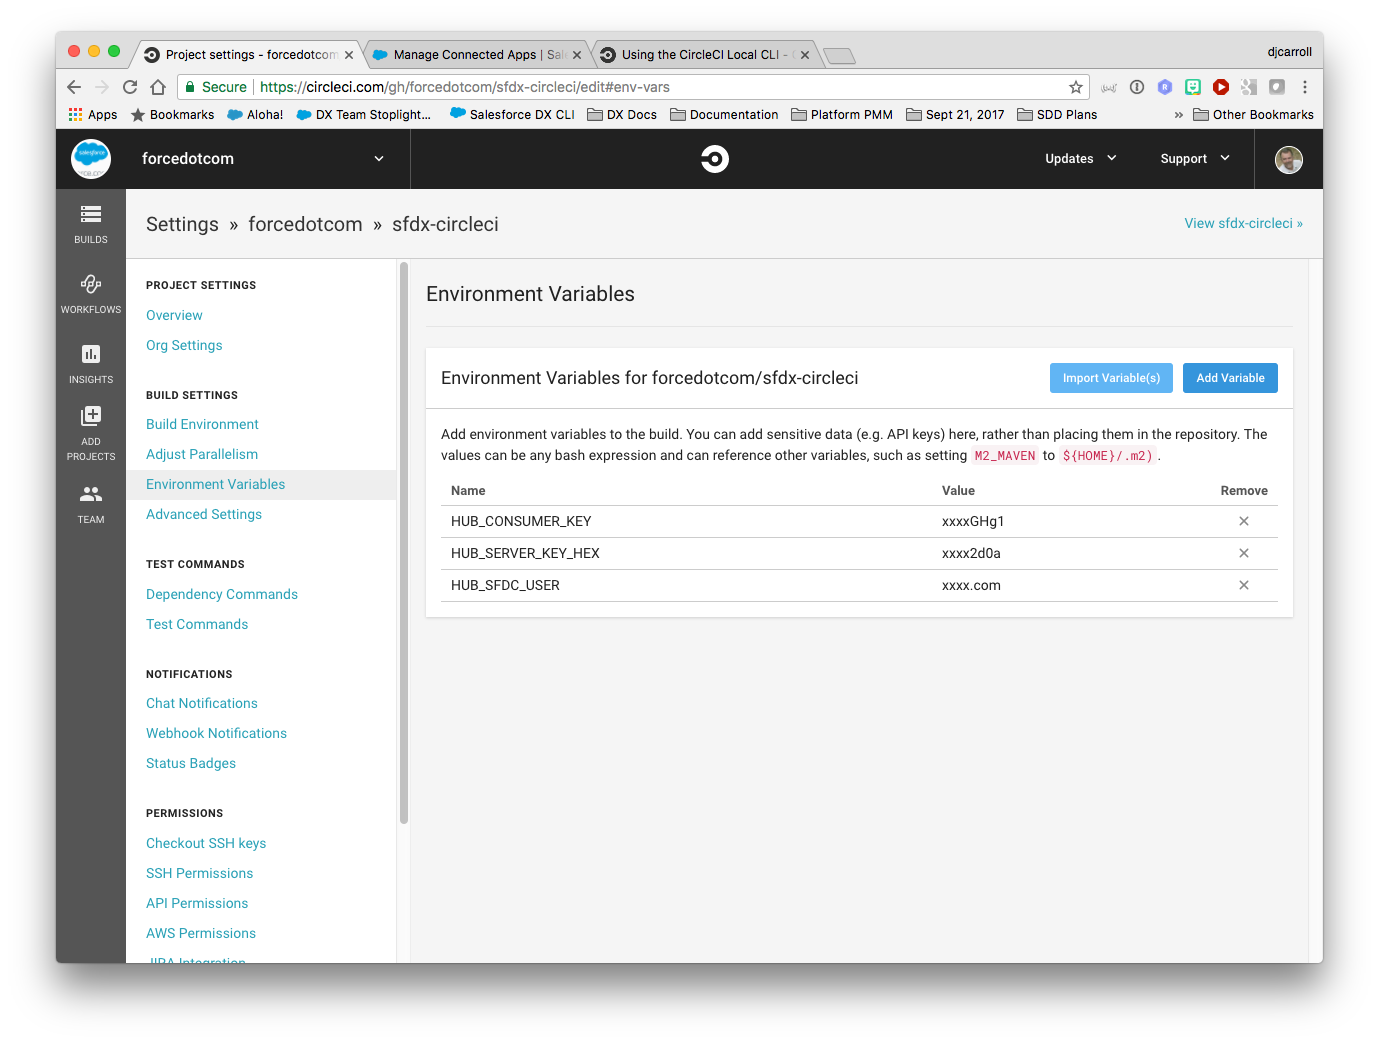
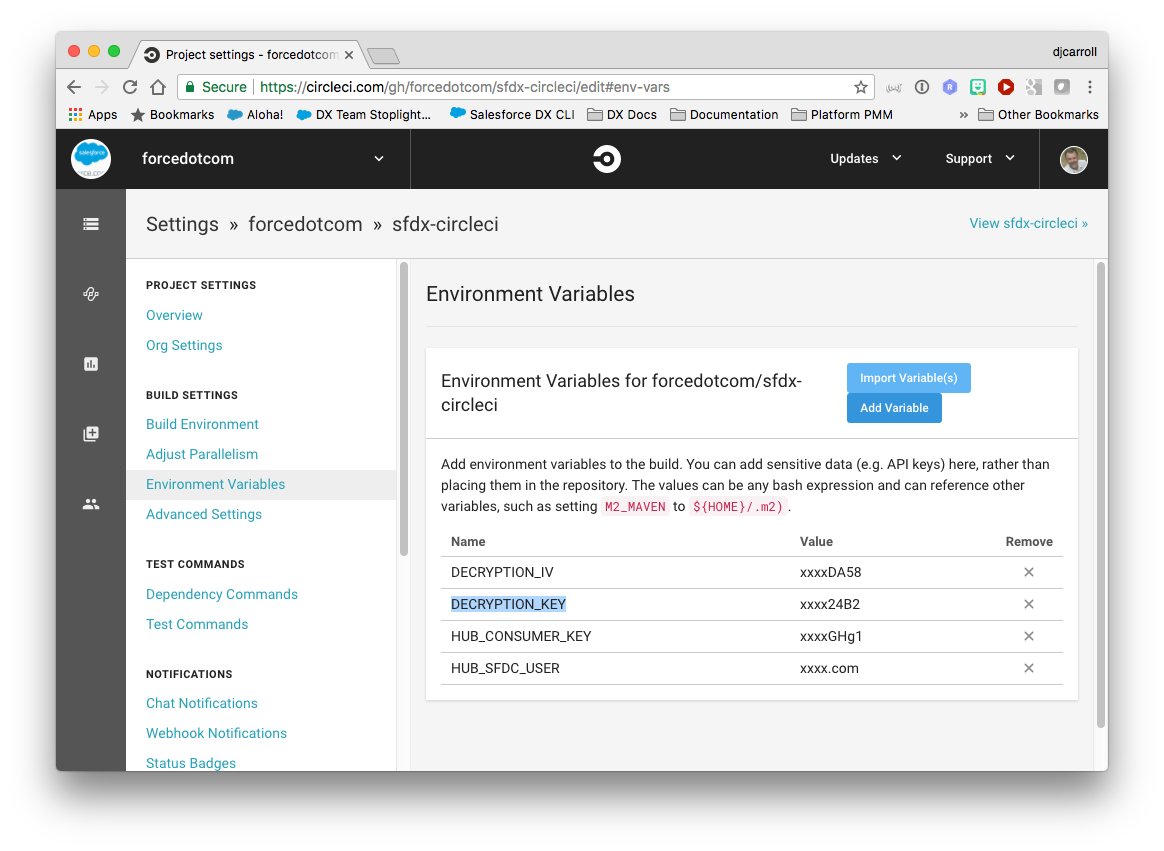
change server.key handling

diff --git a/README.md b/README.md
@@ -21,13 +21,10 @@ If any any of these assumptions aren't true, the following steps won't work.
 
 4) Clone your forked repo locally: `git clone https://github.com/<git_username>/sfdx-circleci.git`
 
-4) Encrypt and store the server.key generated above.
-> "Circle does a nice job of allowing you to set environment variables inside the UI in a 
-  protected way. Because OpenSSL likes key files formatted in a particular fashion, we'll convert 
-  it to hex for storage in env variables. This will make it easier to create a valid key file 
-  on the fly in the build later." (attribution to [Kevin O'Hara](https://github.com/kevinohara80))
+4) Encrypt and store the server.key generated above using the instructions below.
+> "Circle does a nice job of allowing you to set environment variables inside the UI in a protected way." (attribution to [Kevin O'Hara](https://github.com/kevinohara80))
 
- * Generate keys to encrypt you server.key file locally and then decrypt your server key within CircleCI
+- First, we will generate a key and initializtion vector (iv) to encrypt your server.key file locally.  The key and iv will be used by Circleci to decrypt your server key in the build environment.
 
 ```bash
 $ openssl enc -aes-256-cbc -k <passphrase here> -P -md sha1 -nosalt
@@ -37,24 +34,25 @@ $ openssl enc -aes-256-cbc -k <passphrase here> -P -md sha1 -nosalt
 
 > Make note of the `key` and `iv` values output to the screen. You will use the values following `key=` and `iv =` to encrypt your `server.key` in the next step.
 
- * Encrypt the `server.key` using the newly generated `key` and `iv` values.  These values can only be generated once, so if you lose these values you will need to generated new ones and encrypt again.
+- Encrypt the `server.key` using the newly generated `key` and `iv` values.  The `key` and `iv` values *should* only be used once, don't use them to encrypt more than the `server.key`.  While you can re-use this pair to encrypt other things, it is considered a security violation to do so.  Every time you run the command above, a new `key` and `iv` value will be generated.  IE, you can not regenerated the same pair, so if you lose these values you will need to generated new ones and encrypt again.
 
 ```bash
-openssl enc -nosalt -aes-256-cbc -in server.key -out server.key.enc -base64 -K <key from above> -iv <iv from above>
+openssl enc -nosalt -aes-256-cbc -in assets/server.key -out assets/server.key.enc -base64 -K <key from above> -iv <iv from above>
 ```
  
- * Store the `key`, `iv` and contents of `server.key.enc` as protected environment variables in the Circleci UI.
+- Store the `key`, `iv` and contents of `server.key.enc` as protected environment variables in the Circleci UI. These valus are considered *secret* so please treat them as such.
 
-5) From you JWT-Based connected app on Salesforce, retrieve the generated `Consumer Key`.
+5) From you JWT-Based connected app on Salesforce, retrieve the generated `Consumer Key` and store in a Circleci environment variable named `HUB_CONSUMER_KEY` using the Circleci UI.
 
+6) Store the user name that you use to access your Dev Hub in a Circleci environment variable named `HUB_SFDX_USER` using the Circleci UI. Note that this username is the username that you use to access your Dev Hub.
 
-6) Set your `HUB_CONSUMER_KEY`, `HUB_SERVER_KEY_HEX` and `HUB_SFDX_USER` using the CircleCi UI. Note that this username is the username that you use to access your Dev Hub.
+7) Store the `key` and `iv` values used above in Circleci environment variables named `DECRYPTION_KEY` and `DECRYPTION_IV` respectively.  When finished setting environment variables you environment variables setup screen should look like the one below.
 
 ![alt text](assets/images/screenshot-194.png)
 
 10) IMPORTANT! Remove your `server.key`: `rm assets/server.key`, you should never store keys or certificates in a public place.
 
-And you should be ready to go! Now when you commit and push a change, your change will kick off a Travis CI build.
+And you should be ready to go! Now when you commit and push a change, your change will kick off a Circle CI build.
 
 Enjoy!
 
